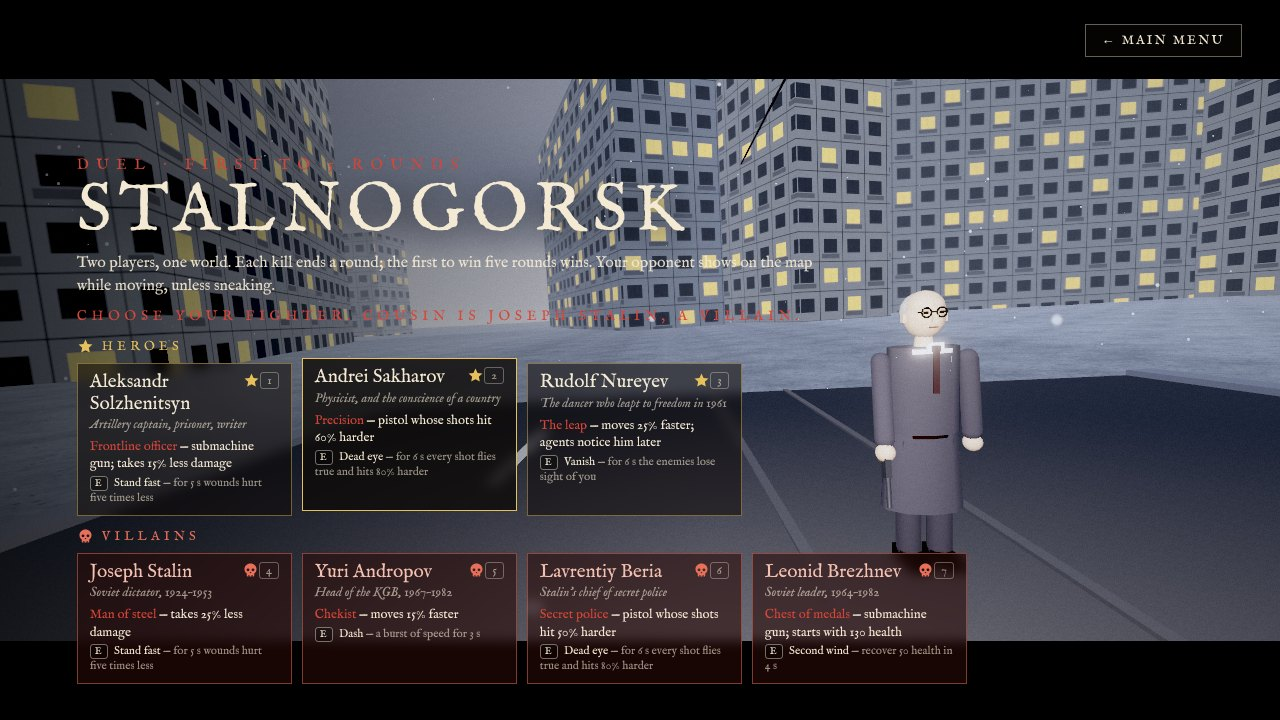
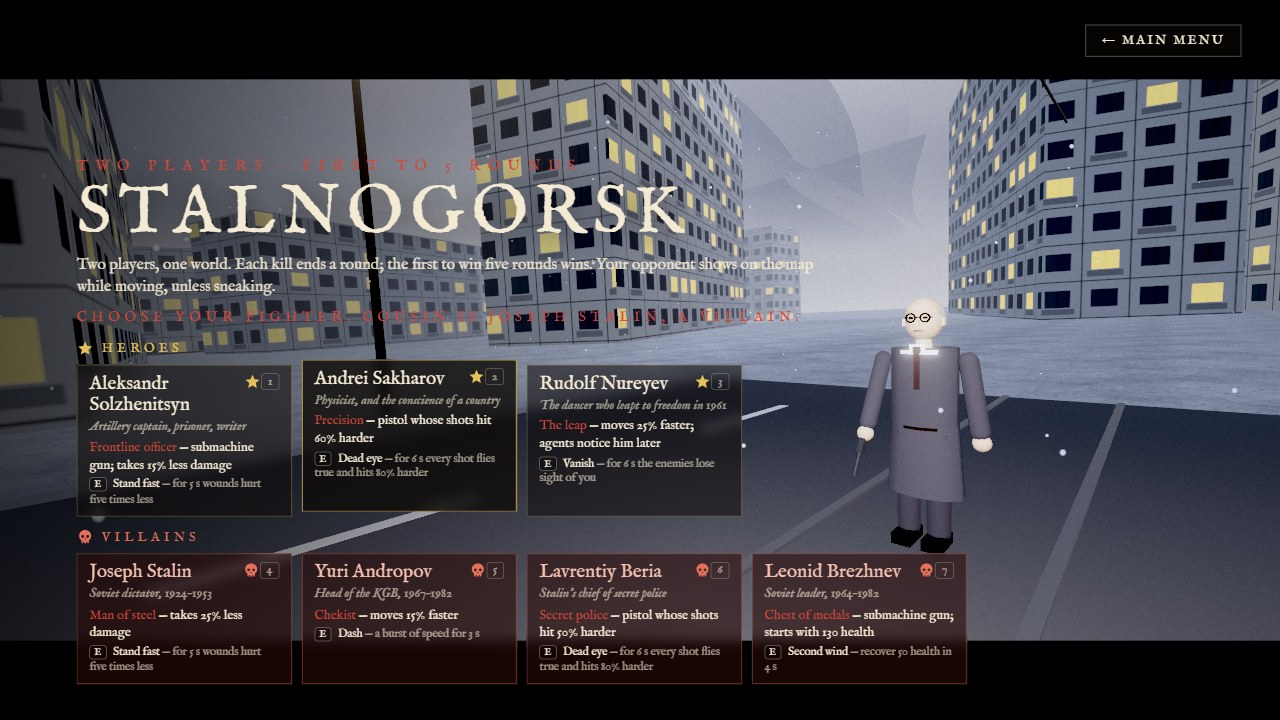
Pictures and figures of version 2.7.0
Pictures taken again: the title screen (it still showed version 2.2.0 and
"2 to 4 players, duel, flags, together"), the choice of fighters and the duel
(it still showed the microphone of the voice chat). New pictures: the Suone of
Uri and the Online screen with its code and its list of players.

Figures measured again on the same laptop: the per-chapter table (draw calls,
triangles, instances, colliders), the frame rates at 3840 x 2160 on High,
Medium and Low, and those at 1280 x 720. Counted again: about 160 bystanders
(was 130), eleven to twenty a chapter and 32 in chapter VII, 62 ladders (was 58).

Corrected: the known limits said enemies never crouch or climb ladders, which
has only been true of Low wits since 2.0.0; the landing page described a picture
of the railroad depot where Main Street is shown.

diff --git a/index.html b/index.html
@@ -42,7 +42,7 @@
   <p class="lede">Two first-person shooters inspired by the 1997 Western Outlaws. Eight frontiers to cross, alone against many: the Old West, feudal Japan, medieval Switzerland, ancient Greece, Viking Scandinavia, Normandy in 1944, Soviet Russia in 1974, and Tibet in 1959. Lone Hand adds a ninth: Tenochtitlan, the Aztec capital, in 1520. Each version below was built by a different AI assistant from the same brief.</p>
   <div class="grid">
     <a class="card claude" href="Claude/index.html">
-      <img src="Claude/screenshot.jpg" width="1280" height="720" alt="Lone Hand in play: the railroad depot north of Dry Gulch at golden hour, with the station house, a loading dock, a red boxcar, banded mesas behind and the six-shooter in the foreground">
+      <img src="Claude/screenshot.jpg" width="1280" height="720" alt="Lone Hand in play: Main Street of Dry Gulch at sunset, with the telegraph office on the left and the jail on the right, lit windows along both sides, the sun low over the mesa at the end of the street and the six-shooter in the foreground">
       <h2>Lone Hand</h2><p>Built with Claude. Nine chapters from Dry Gulch to Tenochtitlan, with twenty-seven heroes of history and legend, each with two weapons and a skill, buildings to enter, longships to board, roofs, towers and the Great Temple to climb, a metro and a church to visit, a place of its own time in every chapter, townsfolk, weavers, nuns and market women who go about their day and run for cover, enemies as clever as you choose, a map in three sizes that names the places you find, and games online for two players, a duel or together against the enemy, all generated by code.</p><span class="tag">Play Lone Hand</span><span class="ver">Version 2.7.0</span>
     </a>
     <a class="card gemini" href="Gemini/index.html">

diff --git a/Claude/README.md b/Claude/README.md
@@ -8,7 +8,7 @@ a Greek island, a Norwegian fjord, a village in Normandy in 1944, a Soviet city 
 the Tibetan plateau in 1959 and the Aztec capital in 1520, one hero faces many enemies alone, in a real-time 3D
 world you can walk through freely. Most buildings can be entered, the longships at
 Jarnvik can be boarded, and every chapter has several ways to the enemy, places to climb, by a ladder or by steps of rock, and
-low places to crawl through or into for an ambush. About 130 people who take no part in the fight, half of them women, go
+low places to crawl through or into for an ambush. About 160 people who take no part in the fight, half of them women, go
 about their work in the nine worlds: a woman keeps the bar in Dry Gulch, Penelope weaves in Ithaca, nuns turn the prayer
 wheels of Che La. Twenty-seven heroes from history and legend are playable, three per
 chapter. Online, two players fight a duel, as a hero or as one of thirty villains, or play a
@@ -28,11 +28,11 @@ files.
 | **Chapter VII · Stalnogorsk** | **Chapter VIII · Che La** | **Chapter IX · Tenochtitlan** |
 | <img src="screenshot-russia.jpg" width="280" alt="The church of St Nicholas in Stalnogorsk in falling snow: white walls under onion domes in blue and gold with gold crosses, panel blocks with lit windows behind, bare birches, the submachine gun in the foreground"> | <img src="screenshot-tibet.jpg" width="280" alt="The gateway chorten at the foot of the great stair of Che La: prayer flags, a white stupa with a gilded spire beyond, snow peaks under a deep blue sky, the rifle in the foreground"> | <img src="screenshot-aztec.jpg" width="280" alt="The Great Temple of Tenochtitlan at sunset seen from the sacred precinct: its steep stair between the terraces, the two shrines on top, gardens on the walls, the dart-thrower in the foreground"> |
 
-| Duel · choose your fighter | Duel · face to face |
-| :---: | :---: |
-| <img src="screenshot-duel-pick.jpg" width="400" alt="The fighter selection of a duel in Stalnogorsk: three heroes marked with gold stars (Aleksandr Solzhenitsyn, Andrei Sakharov, Rudolf Nureyev) above four villains marked with red skulls (Joseph Stalin, Yuri Andropov, Lavrentiy Beria, Leonid Brezhnev), each card with its strength and special skill, and Andrei Sakharov standing in the snowy street between the housing blocks"> | <img src="screenshot-duel.jpg" width="400" alt="A duel on Revolution Square in falling snow: the other player, named Cousin, as Joseph Stalin in a white tunic, stands before the red plinth of the monument; the score line reads You 0 · 0 Cousin, round 1; the pistol in the foreground; the microphone and the other player's voice at the top left"> |
+| Online · the invite | Duel · choose your fighter | Duel · face to face |
+| :---: | :---: | :---: |
+| <img src="screenshot-online.jpg" width="280" alt="The Online screen of the host over Stalnogorsk: the chapter, the game (Duel, first to 5 rounds), the computer enemies, their wits and the map size in five lists, the Start the game button, the code of five letters in large plain type with the invite link and a Copy the link button below it, and the Players list with two names, Marshal (host, you) and Cousin"> | <img src="screenshot-duel-pick.jpg" width="280" alt="The fighter selection of a duel in Stalnogorsk: three heroes marked with gold stars (Aleksandr Solzhenitsyn, Andrei Sakharov, Rudolf Nureyev) above four villains marked with red skulls (Joseph Stalin, Yuri Andropov, Lavrentiy Beria, Leonid Brezhnev), each card with its strength and special skill, and Andrei Sakharov standing in the snowy street between the housing blocks"> | <img src="screenshot-duel.jpg" width="280" alt="A duel on Revolution Square in falling snow: the other player, named Cousin, as Joseph Stalin in a white tunic, stands before the red plinth of the monument with its hammer and sickle; the score line reads You 0 · 0 Cousin, round 1; a gust of snow drifts over the square; the pistol in the foreground"> |
 
-![The title screen: the game's name over a Japanese garden at dusk, nine chapter cards in three rows, the Online button, the Sound button and the Graphics list in the bottom left corner and the version number in the bottom right corner](screenshot-title.jpg)
+![The title screen: the game's name over a Japanese garden at dusk, nine chapter cards in three rows, the Online button for two players (duel or together), the Sound button and the Graphics list in the bottom left corner and the version number in the bottom right corner](screenshot-title.jpg)
 
 ## Run it
 
@@ -82,9 +82,9 @@ and some enemies wait indoors, on deck or behind the waterfall.
 | VIII | the village houses, each furnished differently, the old fort, the monks' houses and the monastery's assembly hall with its gallery, side doors and kitchen; the village temple, the chapel of the great prayer wheel, a nomad tent of black yak hair; two army tents, the bed of a lorry, a field barn with a hay loft |
 | IX | the two shrines on top of the Great Temple, each with an altar heaped with gold; the palace of Axayacatl with its rooms round a patio, the market, the temple of the wind god, the House of the Eagles, the ball court; the white houses of the city and of the landing village; a steam bath |
 
-| Below Stalnogorsk · the metro | Inside the church of St Nicholas |
-| :---: | :---: |
-| <img src="screenshot-metro.jpg" width="400" alt="Revolution Square Station, 10 m under Stalnogorsk: a vaulted hall of white columns and arches with a chandelier, the station's name on the walls, the blue train at the platform on the left, the Committee's men on the platform, a red banner at the far end, the submachine gun in the foreground"> | <img src="screenshot-church.jpg" width="400" alt="Inside the church of St Nicholas: the gilded screen of icons with its royal doors open, the priest in black with his tall hat behind the lectern, two old women at prayer before the candle stands, the chandelier above"> |
+| Uri · the Suone | Below Stalnogorsk · the metro | Inside the church of St Nicholas |
+| :---: | :---: | :---: |
+| <img src="screenshot-suone.jpg" width="280" alt="The Suone of Uri below the waterfall: a wooden channel hung on the rock face on beams, the keeper's plank beside it, steps cut in the rock leading up to it, and the channel going on across the meadow on trestles; pines and the mountains behind, the crossbow in the foreground"> | <img src="screenshot-metro.jpg" width="280" alt="Revolution Square Station, 10 m under Stalnogorsk: a vaulted hall of white columns and arches with a chandelier, the station's name on the walls, the blue train at the platform on the left, the Committee's men on the platform, a red banner at the far end, the submachine gun in the foreground"> | <img src="screenshot-church.jpg" width="280" alt="Inside the church of St Nicholas: the gilded screen of icons with its royal doors open, the priest in black with his tall hat behind the lectern, two old women at prayer before the candle stands, the chandelier above"> |
 
 Things to find on the way: mosaic floors and a bronze Athena in Ithaca; the hammer and
 sickle on the flags, the monument, the palace and the tower of Stalnogorsk; a gilded
@@ -92,7 +92,7 @@ Buddha in each of the three temples of Che La; bomb craters in Sainte-Aubine.
 
 ### People who take no part in the fight
 
-Every chapter has ten to eighteen bystanders (more on a large map, and more in chapter VII),
+Every chapter has eleven to twenty bystanders (more on a large map, and 32 in chapter VII),
 about half of them women, dressed for the place and the time and busy with something. They
 breathe, shift their weight and look about; those at work keep working (hammering,
 scrubbing, churning), those talking talk with their hands, those seated take a drink now and
@@ -1047,39 +1047,46 @@ shadow map, gained two frames and was thrown away. The levels as built, same scr
 
 | | High | Medium | Low |
 | --- | --- | --- | --- |
-| Chapter I | 24 | 55 | 120 |
-| Chapter III | 22 | 33 | 68 |
-| Chapter IX | 16 | 27 | 51 |
+| Chapter I | 23 | 53 | 120 |
+| Chapter III | 22 | 47 | 120 |
+| Chapter IX | 17 | 37 | 79 |
 
-These are the figures of version 1.5.0, with 30 enemies; the larger worlds cost a few frames (version 1.4.0 measured
-32 / 61 / 111, 26 / 43 / 96 and 19 / 30 / 78).
+These are the figures of version 2.7.0, with 30 enemies on a medium map, each read over three
+seconds; the display of this laptop shows 120 pictures a second at most. Version 1.5.0 measured
+24 / 55 / 120, 22 / 33 / 68 and 16 / 27 / 51, version 1.4.0, with smaller worlds,
+32 / 61 / 111, 26 / 43 / 96 and 19 / 30 / 78.
 
-At 1280 × 720 the same machine runs every level at 100 to 120 frames a second, so there the
-setting makes no visible difference.
+At 1280 × 720 the same machine runs seven of the nine chapters at 90 to 120 frames a second on
+High, so there the setting makes no visible difference. Chapters II and IX run at 60 to 70
+there, and at about 100 on Medium.
 
-Measured at 1280 × 720, standing at the start of each chapter with 30 enemies alive.
+Measured in version 2.7.0 at 1280 × 720 on High, standing at the start of each chapter on a
+medium map with 30 enemies alive.
 A frame includes the shadow pass and the post-processing passes. Enemies count for much
 of the draw calls: each figure is five or six meshes, drawn once for the picture and
 once for the shadow map.
 
 | Chapter | Draw calls per frame | Triangles per frame | Instances | Colliders | Route grid cells |
 | --- | --- | --- | --- | --- | --- |
-| I · Dry Gulch | 578 | 0.93 million | 8,000 | 1,048 | 53,500 |
-| II · Kagemori | 431 | 0.64 million | 14,900 | 1,890 | 50,800 |
-| III · Uri | 612 | 1.97 million | 52,700 | 902 | 153,700 |
-| IV · Ithaca | 605 | 0.98 million | 18,200 | 1,002 | 106,200 |
-| V · Jarnvik | 490 | 1.05 million | 2,100 | 1,220 | 87,700 |
-| VI · Sainte-Aubine | 416 | 0.92 million | 22,800 | 946 | 98,000 |
-| VII · Stalnogorsk | 517 | 0.27 million | 23 | 716 | 81,100 |
-| VIII · Che La | 455 | 0.93 million | 20,400 | 745 | 118,900 |
-| IX · Tenochtitlan | 524 | 2.12 million | 8,900 | 1,648 | 92,100 |
+| I · Dry Gulch | 835 | 0.95 million | 8,000 | 1,475 | 53,500 |
+| II · Kagemori | 665 | 0.67 million | 15,000 | 1,964 | 50,800 |
+| III · Uri | 859 | 2.01 million | 52,900 | 1,140 | 153,700 |
+| IV · Ithaca | 857 | 1.00 million | 18,300 | 1,138 | 106,200 |
+| V · Jarnvik | 667 | 1.07 million | 2,200 | 1,428 | 87,700 |
+| VI · Sainte-Aubine | 552 | 0.93 million | 22,900 | 1,017 | 98,000 |
+| VII · Stalnogorsk | 902 | 0.37 million | 143 | 1,166 | 81,100 |
+| VIII · Che La | 617 | 0.97 million | 20,800 | 964 | 118,900 |
+| IX · Tenochtitlan | 694 | 2.14 million | 9,200 | 1,680 | 92,100 |
 
 Chapter IX is the heaviest in triangles, with the trees of its shores and its city; chapter III has the most
 instances, with its 42,000 grass tufts. Chapter II has the most
 colliders because every bamboo stalk near the path is solid; chapter IX comes second,
 with its tree trunks and the walls of its city. Chapter VII is the lightest
-in triangles: a city of boxes with painted windows. Bystanders add to the draw calls as
-enemies do: each is five or six meshes.
+in triangles, a city of boxes with painted windows, and has the most draw calls. Bystanders
+add to the draw calls as enemies do: each is five or six meshes, and chapter VII has 32 of
+them. Where the enemies stand is drawn anew for every game, so the first two columns move by a
+few units from one visit to the next. Version 1.5.0 counted 416 to 612 draw calls a frame and
+716 to 1,890 colliders; the grid of routes has not changed since.
 
 ### Versions
 
@@ -1237,6 +1244,14 @@ browsers, the partner at his side, a kill by the one who joined counted for him 
 the end of the mission on both screens). Not tested: players on different networks, the
 effect of real network delay, the timed duel, Safari.
 
+The figures of the *Performance* section were measured again in version 2.7.0, in an
+automated browser on the same laptop: draw calls and triangles were read from the renderer
+over about a second at the start of each chapter, the frame rates over three seconds each.
+The pictures of the title screen, the Online screen, the choice of fighters, the duel and the
+Suone were taken in that version too. The nine chapter pictures and the others date from
+version 2.1.0; the hero screen and the display during play were compared with them and have
+not changed, but the views were not taken again one by one.
+
 Version 2.3.0 was checked in a browser without a window: all nine chapters load without
 an error, every bystander has something to do, the animals are where they were (seven
 horses, a mule and four hens in chapter I, an ox, five cows and two mules, five goats, six
@@ -1285,8 +1300,9 @@ estimate, and frame rate on slower graphics hardware has not been measured.
   one that has run away stays where it stopped.
 - With five villains and three heroes, the fighter selection of chapter IV uses smaller
   cards than the other chapters.
-- Enemies cannot jump, crouch or climb ladders. A player on a roof or in a den can only be shot at, or
-  not reached at all.
+- Enemies cannot jump. At *Low* wits they neither crouch nor climb ladders, so a player on a
+  roof or in a den can only be shot at, or not reached at all; at *Medium* and *Genius* they
+  climb ladders and crouch into low hiding places.
 - The climbable butte of chapter I is built from layered blocks and is more angular than
   the rounded mesas on the horizon. (The boulder of chapter III was rebuilt as one irregular rock.)
 - Wind moves plants but not their shadows.

diff --git a/README.md b/README.md
@@ -25,15 +25,17 @@ To play offline, download or clone this repository and open `index.html` in your
 | **Chapter VII · Stalnogorsk** | **Chapter VIII · Che La** | **Chapter IX · Tenochtitlan** |
 | <img src="Claude/screenshot-russia.jpg" width="280" alt="The church of St Nicholas in Stalnogorsk in falling snow: white walls under onion domes in blue and gold with gold crosses, panel blocks with lit windows behind, bare birches, the submachine gun in the foreground"> | <img src="Claude/screenshot-tibet.jpg" width="280" alt="The gateway chorten at the foot of the great stair of Che La: prayer flags, a white stupa with a gilded spire beyond, snow peaks under a deep blue sky, the rifle in the foreground"> | <img src="Claude/screenshot-aztec.jpg" width="280" alt="The Great Temple of Tenochtitlan at sunset seen from the sacred precinct: its steep stair between the terraces, the two shrines on top, gardens on the walls, the dart-thrower in the foreground"> |
 
-| Duel · choose your fighter | Duel · face to face |
-| :---: | :---: |
-| <img src="Claude/screenshot-duel-pick.jpg" width="400" alt="The fighter selection of a duel in Stalnogorsk: three heroes marked with gold stars (Aleksandr Solzhenitsyn, Andrei Sakharov, Rudolf Nureyev) above four villains marked with red skulls (Joseph Stalin, Yuri Andropov, Lavrentiy Beria, Leonid Brezhnev), each card with its strength and special skill, and Andrei Sakharov standing in the snowy street between the housing blocks"> | <img src="Claude/screenshot-duel.jpg" width="400" alt="A duel on Revolution Square in falling snow: the other player, named Cousin, as Joseph Stalin in a white tunic, stands before the red plinth of the monument; the score line reads You 0 · 0 Cousin, round 1; the pistol in the foreground; the microphone and the other player's voice at the top left"> |
-
-| Below Stalnogorsk · the metro | Inside the church of St Nicholas | The map, with the places found |
+| Online · the invite | Duel · choose your fighter | Duel · face to face |
 | :---: | :---: | :---: |
-| <img src="Claude/screenshot-metro.jpg" width="280" alt="Revolution Square Station, 10 m under Stalnogorsk: a vaulted hall of white columns and arches with a chandelier, the station's name on the walls, the blue train at the platform on the left, the Committee's men on the platform, a red banner at the far end"> | <img src="Claude/screenshot-church.jpg" width="280" alt="Inside the church of St Nicholas: the gilded screen of icons with its royal doors open, the priest in black with his tall hat behind the lectern, two old women at prayer before the candle stands, the chandelier above"> | <img src="Claude/screenshot-map.jpg" width="280" alt="The map of Dry Gulch, held open with Tab: the ground found so far uncovered, the names of the places found (Main Street, the Railroad Depot, the Church, Boot Hill, the Silver Queen Mine...) and a mark on Boot Hill"> |
+| <img src="Claude/screenshot-online.jpg" width="280" alt="The Online screen of the host over Stalnogorsk: the chapter, the game (Duel, first to 5 rounds), the computer enemies, their wits and the map size in five lists, the Start the game button, the code of five letters in large plain type with the invite link and a Copy the link button below it, and the Players list with two names, Marshal (host, you) and Cousin"> | <img src="Claude/screenshot-duel-pick.jpg" width="280" alt="The fighter selection of a duel in Stalnogorsk: three heroes marked with gold stars (Aleksandr Solzhenitsyn, Andrei Sakharov, Rudolf Nureyev) above four villains marked with red skulls (Joseph Stalin, Yuri Andropov, Lavrentiy Beria, Leonid Brezhnev), each card with its strength and special skill, and Andrei Sakharov standing in the snowy street between the housing blocks"> | <img src="Claude/screenshot-duel.jpg" width="280" alt="A duel on Revolution Square in falling snow: the other player, named Cousin, as Joseph Stalin in a white tunic, stands before the red plinth of the monument with its hammer and sickle; the score line reads You 0 · 0 Cousin, round 1; a gust of snow drifts over the square; the pistol in the foreground"> |
 
-*Lone Hand* is a free-roaming 3D shooter in nine chapters, with every texture, model and sound generated by code. Each chapter starts with a choice of three heroes from history and legend, twenty-seven in all, among them Wyatt Earp, Miyamoto Musashi, Wilhelm Tell, Ulysses, Erik the Red, Lyudmila Pavlichenko, Andrei Sakharov, Gompo Tashi Andrugtsang and Cuauhtémoc, each with their own look and one strength. Most buildings can be entered and are furnished, four Viking longships can be boarded, a path leads behind the waterfall of Uri, an irrigation channel (the Suone) runs from it to the meadows with a plank to walk along the rock face, and every chapter offers several ways to the enemy. About 130 people who take no part in the fight, half of them women, go about their day: a woman keeps the bar in Dry Gulch, three men swear the oath on the Rütli, Penelope weaves in Ithaca, Norse women hang cod on the racks, nuns turn the prayer wheels of Che La, market women sell in Tenochtitlan. You can crouch, climb 58 ladders onto roofs, towers, scaffolds and rocks, crawl through hedges and drains and under wagons, and walk up a butte by steps of rock, for an ambush or a sniper's nest. A chapter holds 5 to 30 enemies (45 on a large map), as you choose, and they think as cleverly as you choose: dull, medium or genius, from those who only fight back to those who hide, call each other, climb after you and throw bombs at where you hide. The map can be small, medium or large, with hamlets round a large one. Every hero sets out with two weapons and a special skill. Landmarks get their names on the map as you find them, enemies shout at you in their own languages, and in Stalnogorsk you can go down into the metro, up a stairwell to five floors of flats, and into an Orthodox church. Weapons can be taken from fallen enemies and changed with the mouse wheel, healing items and bombs kept in a bag, places marked on a map, fences, furniture, carts, crates and powder kegs shot to pieces; bystanders run for cover when shooting starts, and some of them, like some animals, fight back when hurt. Two players can play online, each in their own browser, connected directly to each other: a duel, or together against the enemy, as a hero or as one of thirty villains. **[Play it in your browser](https://iago-swi.github.io/outlaws/Claude/)**, or download the repository and open `Claude/index.html`. [Controls and technical notes](Claude/README.md) · [Changelog](Claude/CHANGELOG.md), version 2.7.0
+| Uri · the Suone | Below Stalnogorsk · the metro |
+| :---: | :---: |
+| <img src="Claude/screenshot-suone.jpg" width="400" alt="The Suone of Uri below the waterfall: a wooden channel hung on the rock face on beams, the keeper's plank beside it, steps cut in the rock leading up to it, and the channel going on across the meadow on trestles; pines and the mountains behind, the crossbow in the foreground"> | <img src="Claude/screenshot-metro.jpg" width="400" alt="Revolution Square Station, 10 m under Stalnogorsk: a vaulted hall of white columns and arches with a chandelier, the station's name on the walls, the blue train at the platform on the left, the Committee's men on the platform, a red banner at the far end"> |
+| **Inside the church of St Nicholas** | **The map, with the places found** |
+| <img src="Claude/screenshot-church.jpg" width="400" alt="Inside the church of St Nicholas: the gilded screen of icons with its royal doors open, the priest in black with his tall hat behind the lectern, two old women at prayer before the candle stands, the chandelier above"> | <img src="Claude/screenshot-map.jpg" width="400" alt="The map of Dry Gulch, held open with Tab: the ground found so far uncovered, the names of the places found (Main Street, the Railroad Depot, the Church, Boot Hill, the Silver Queen Mine...) and a mark on Boot Hill"> |
+
+*Lone Hand* is a free-roaming 3D shooter in nine chapters, with every texture, model and sound generated by code. Each chapter starts with a choice of three heroes from history and legend, twenty-seven in all, among them Wyatt Earp, Miyamoto Musashi, Wilhelm Tell, Ulysses, Erik the Red, Lyudmila Pavlichenko, Andrei Sakharov, Gompo Tashi Andrugtsang and Cuauhtémoc, each with their own look and one strength. Most buildings can be entered and are furnished, four Viking longships can be boarded, a path leads behind the waterfall of Uri, an irrigation channel (the Suone) runs from it to the meadows with a plank to walk along the rock face, and every chapter offers several ways to the enemy. About 160 people who take no part in the fight, half of them women, go about their day: a woman keeps the bar in Dry Gulch, three men swear the oath on the Rütli, Penelope weaves in Ithaca, Norse women hang cod on the racks, nuns turn the prayer wheels of Che La, market women sell in Tenochtitlan. You can crouch, climb 62 ladders onto roofs, towers, scaffolds and rocks, crawl through hedges and drains and under wagons, and walk up a butte by steps of rock, for an ambush or a sniper's nest. A chapter holds 5 to 30 enemies (45 on a large map), as you choose, and they think as cleverly as you choose: dull, medium or genius, from those who only fight back to those who hide, call each other, climb after you and throw bombs at where you hide. The map can be small, medium or large, with hamlets round a large one. Every hero sets out with two weapons and a special skill. Landmarks get their names on the map as you find them, enemies shout at you in their own languages, and in Stalnogorsk you can go down into the metro, up a stairwell to five floors of flats, and into an Orthodox church. Weapons can be taken from fallen enemies and changed with the mouse wheel, healing items and bombs kept in a bag, places marked on a map, fences, furniture, carts, crates and powder kegs shot to pieces; bystanders run for cover when shooting starts, and some of them, like some animals, fight back when hurt. Two players can play online, each in their own browser, connected directly to each other: a duel, or together against the enemy, as a hero or as one of thirty villains. **[Play it in your browser](https://iago-swi.github.io/outlaws/Claude/)**, or download the repository and open `Claude/index.html`. [Controls and technical notes](Claude/README.md) · [Changelog](Claude/CHANGELOG.md), version 2.7.0
 
 ## Gemini version
 
